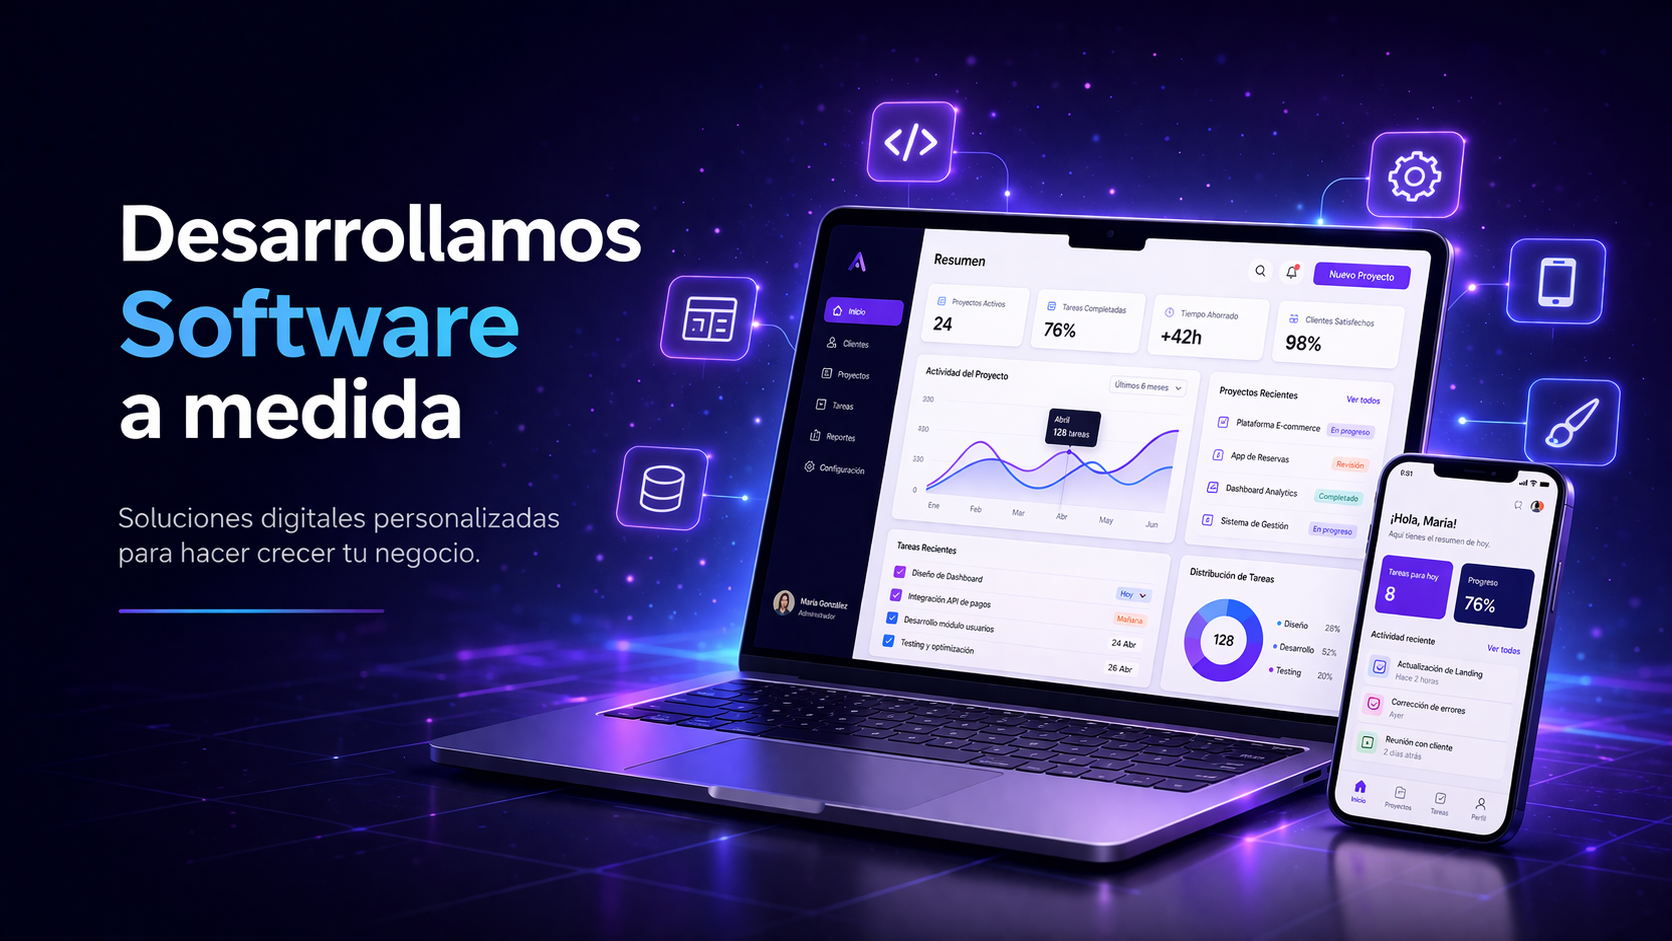
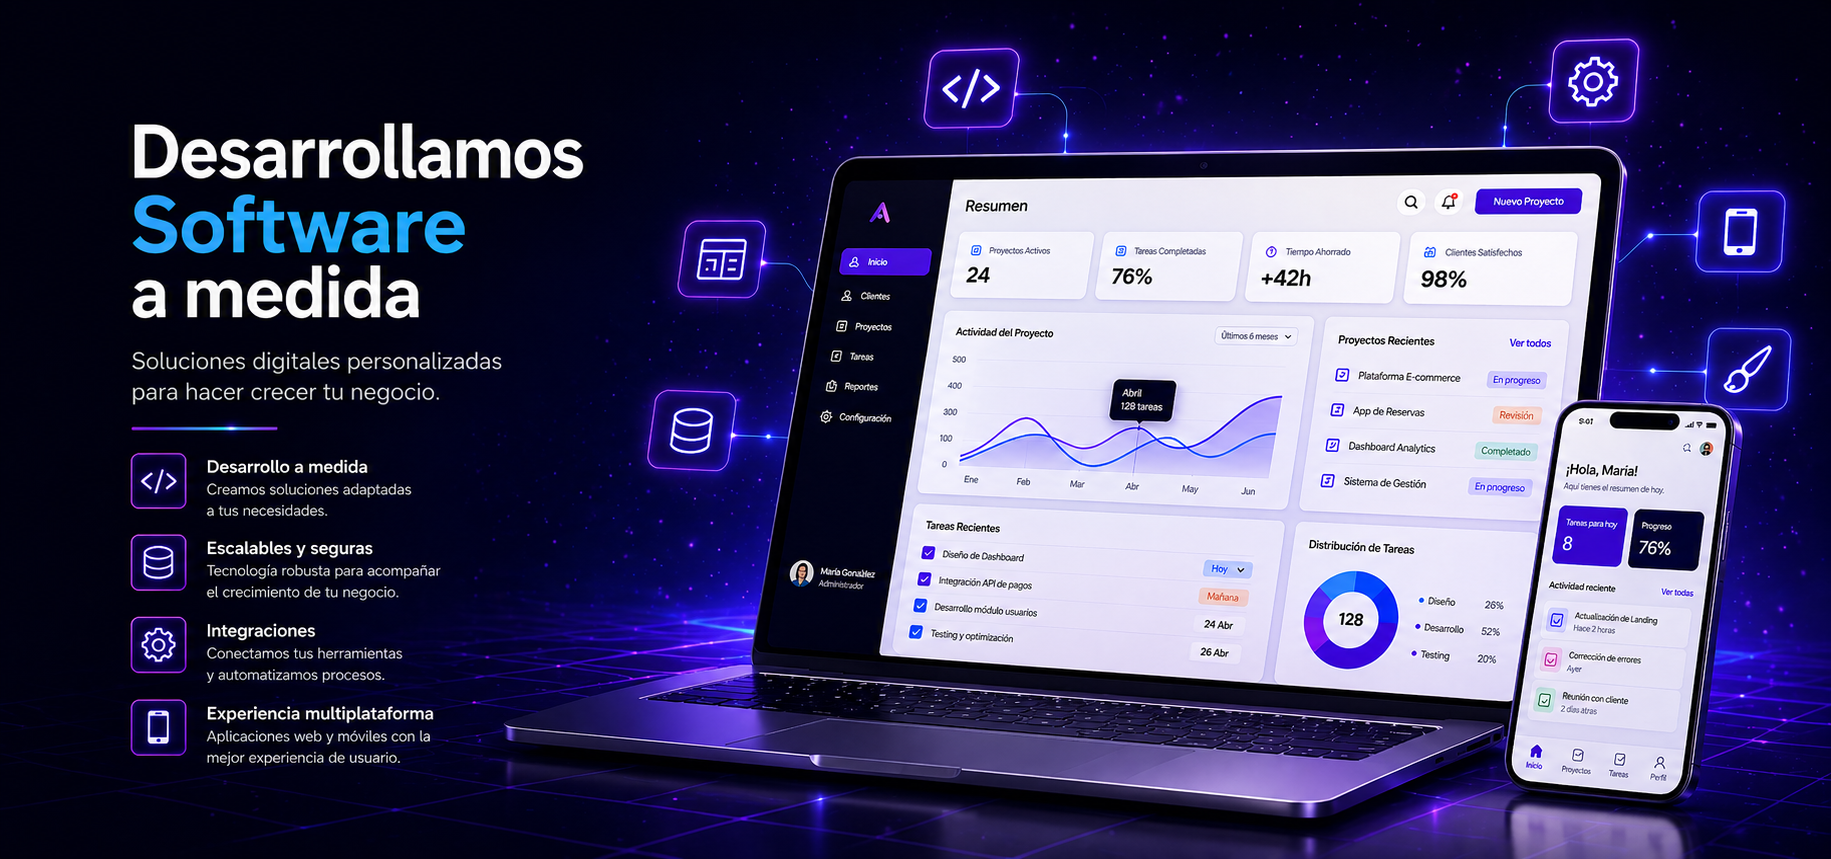
Mejoras Aplicadas

diff --git a/src/components/sections/Hero.jsx b/src/components/sections/Hero.jsx
@@ -3,14 +3,61 @@ import { AnimatePresence, motion } from "framer-motion";
 import hero1 from "../../assets/Hero1.png";
 import hero2 from "../../assets/Hero2.png";
 import hero3 from "../../assets/Hero3.png";
+import mobile1 from "../../assets/Mobile1.png";
+import mobile2 from "../../assets/Mobile2.png";
+import mobile3 from "../../assets/Mobile3.png";
 import { FiChevronLeft, FiChevronRight } from "react-icons/fi";
 
 const Hero = () => {
-  const slides = [hero1, hero2, hero3];
+  const desktopSlides = [hero1, hero2, hero3];
+  const mobileSlides = [mobile1, mobile2, mobile3];
+  const slideVariants = {
+    enter: { opacity: 0 },
+    center: {
+      opacity: 1,
+    },
+    exit: { opacity: 0 },
+  };
+  const [isMobile, setIsMobile] = useState(false);
   const [current, setCurrent] = useState(0);
-  const nextSlide = () => setCurrent((prev) => (prev + 1) % slides.length);
-  const prevSlide = () =>
+  const slides = isMobile ? mobileSlides : desktopSlides;
+
+  useEffect(() => {
+    const mediaQuery = window.matchMedia("(max-width: 767px)");
+
+    const updateBreakpoint = (event) => {
+      setIsMobile(event.matches);
+    };
+
+    setIsMobile(mediaQuery.matches);
+
+    if (mediaQuery.addEventListener) {
+      mediaQuery.addEventListener("change", updateBreakpoint);
+    } else {
+      mediaQuery.addListener(updateBreakpoint);
+    }
+
+    return () => {
+      if (mediaQuery.removeEventListener) {
+        mediaQuery.removeEventListener("change", updateBreakpoint);
+      } else {
+        mediaQuery.removeListener(updateBreakpoint);
+      }
+    };
+  }, []);
+
+  const nextSlide = () => {
+    setCurrent((prev) => (prev + 1) % slides.length);
+  };
+
+  const prevSlide = () => {
     setCurrent((prev) => (prev - 1 + slides.length) % slides.length);
+  };
+
+  const goToSlide = (index) => {
+    if (index === current) return;
+    setCurrent(index);
+  };
 
   useEffect(() => {
     const timer = setInterval(() => {
@@ -23,21 +70,20 @@ const Hero = () => {
   return (
     <section id="inicio" className="relative overflow-hidden pt-20">
       <div className="relative">
-        <AnimatePresence mode="wait">
+        <AnimatePresence mode="wait" initial={false}>
           <motion.img
             key={current}
             src={slides[current]}
             alt="Servicios de desarrollo FullStack"
             className="h-[68vh] w-full object-cover object-center md:h-[86vh]"
-            variants={{
-              enter: { opacity: 0.55, scale: 1.015 },
-              center: { opacity: 1, scale: 1 },
-              exit: { opacity: 0.55, scale: 0.995 },
-            }}
+            variants={slideVariants}
             initial="enter"
             animate="center"
             exit="exit"
-            transition={{ duration: 0.9, ease: "easeInOut" }}
+            transition={{
+              duration: 0.7,
+              ease: "easeInOut",
+            }}
           />
         </AnimatePresence>
         <div className="absolute inset-0 bg-gradient-to-t from-zinc-950/35 via-transparent to-zinc-950/20" />
@@ -45,7 +91,7 @@ const Hero = () => {
         <button
           type="button"
           onClick={prevSlide}
-          className="absolute left-4 top-1/2 grid h-10 w-10 -translate-y-1/2 place-items-center rounded-full border border-zinc-200/25 bg-zinc-900/45 text-zinc-100 backdrop-blur transition hover:bg-zinc-800/65"
+          className="absolute left-4 top-1/2 hidden h-10 w-10 -translate-y-1/2 place-items-center rounded-full border border-zinc-200/25 bg-zinc-900/45 text-zinc-100 backdrop-blur transition hover:bg-zinc-800/65 md:grid"
           aria-label="Imagen anterior"
         >
           <FiChevronLeft />
@@ -53,7 +99,7 @@ const Hero = () => {
         <button
           type="button"
           onClick={nextSlide}
-          className="absolute right-4 top-1/2 grid h-10 w-10 -translate-y-1/2 place-items-center rounded-full border border-zinc-200/25 bg-zinc-900/45 text-zinc-100 backdrop-blur transition hover:bg-zinc-800/65"
+          className="absolute right-4 top-1/2 hidden h-10 w-10 -translate-y-1/2 place-items-center rounded-full border border-zinc-200/25 bg-zinc-900/45 text-zinc-100 backdrop-blur transition hover:bg-zinc-800/65 md:grid"
           aria-label="Imagen siguiente"
         >
           <FiChevronRight />
@@ -64,7 +110,7 @@ const Hero = () => {
             <motion.button
               key={idx}
               type="button"
-              onClick={() => setCurrent(idx)}
+              onClick={() => goToSlide(idx)}
               className={`h-2.5 rounded-full transition ${
                 idx === current ? "w-7 bg-sky-300" : "w-2.5 bg-zinc-300/70"
               }`}

diff --git a/src/components/layouts/Navbar.jsx b/src/components/layouts/Navbar.jsx
@@ -6,8 +6,8 @@ import { FiArrowUpRight } from "react-icons/fi";
 const Navbar = () => {
   const links = [
     { label: "Servicios", href: "#servicios" },
-    { label: "Caso Real", href: "#proyectos" },
-    { label: "Proceso", href: "#proceso" },
+    { label: "Proyectos", href: "#proyectos" },
+    { label: "Metodologia", href: "#proceso" },
     { label: "Contacto", href: "#contacto" },
   ];
 
